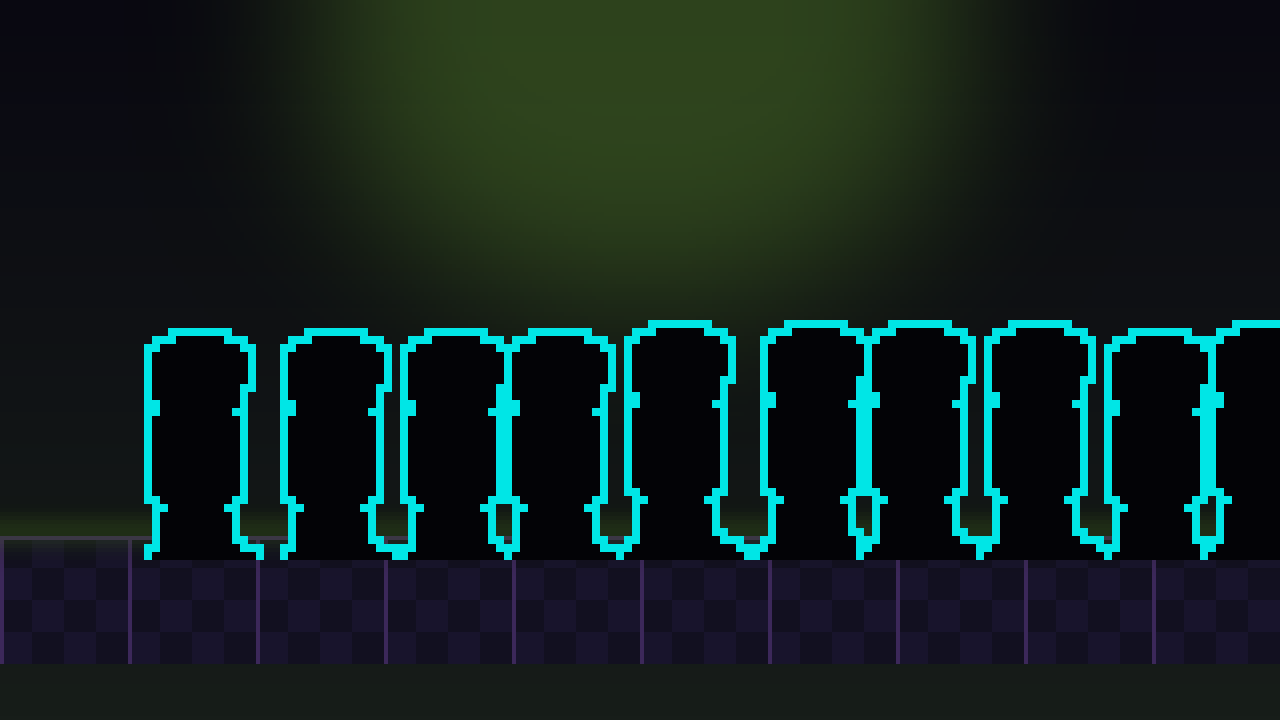
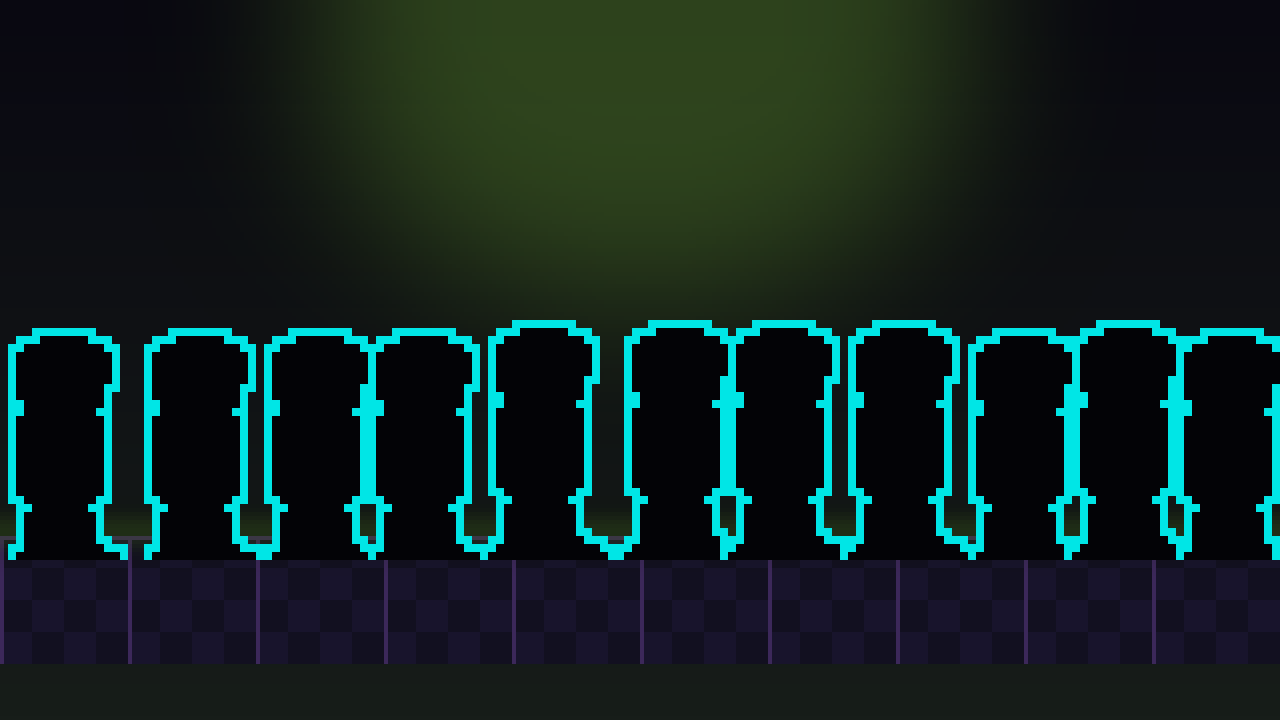
Center lobby backgrounds: full-bleed waiting crowd
The lobby crowd was laid out from a fixed left margin and marched off
the right edge, leaving empty floor on the left — so under bg-cover the
art read as offset to the right, worst on wide viewports.

Lay the line full-bleed instead: start it half off the left edge and
continue until it runs off the right, so the crowd is balanced
edge-to-edge and stays centred at any viewport aspect (the sides crop
evenly). Regenerated lobby_bg.png for both themes; other assets
untouched.

Changed region(s): [[0.5625, 0.4278, 1.0, 0.7944], [0.1875, 0.4278, 0.5, 0.7944], [0.0, 0.4583, 0.0938, 0.7944]]

diff --git a/tools/asset-gen/gen_pack.py b/tools/asset-gen/gen_pack.py
@@ -428,10 +428,13 @@ def lobby_bg(pal):
         img.paste(tile, (tx, floor_top))
     img.alpha_composite(_bloom(W, H, lambda gd: gd.rectangle([0, floor_top - 3, W, floor_top], fill=accent[2] + (220,)), 4))
 
-    # A waiting line of rim-lit idle agents at the start.
+    # A waiting line of rim-lit idle agents at the start. The line runs full-bleed: it
+    # starts half off the left edge and continues until it runs off the right, so the
+    # crowd is balanced edge-to-edge rather than anchored to a left margin. That keeps it
+    # centred under bg-cover at any viewport aspect (the sides crop evenly).
     rnd = random.Random(5)
-    x = 16
-    while x < W - 28:
+    x = -18
+    while x < W:
         v = rnd.randrange(N_VARIANTS)
         fr = draw_agent(pal, v, "idle", rnd.randrange(ANIM["idle"]))
         fr = _silhouette(fr, shade(wall, 0.3), accent[0]).resize((FW * 2, FH * 2), Image.NEAREST)